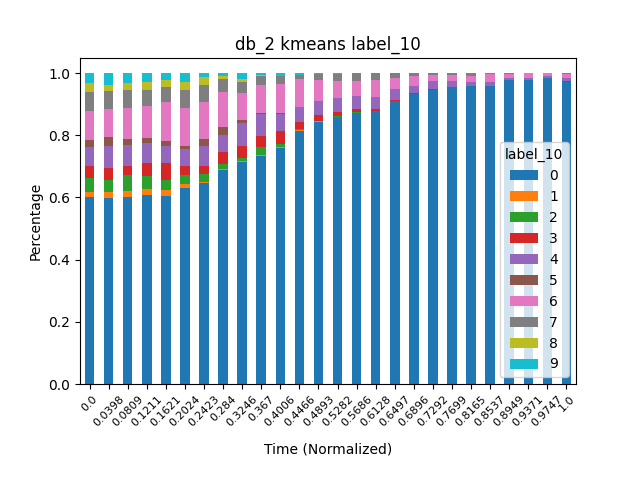
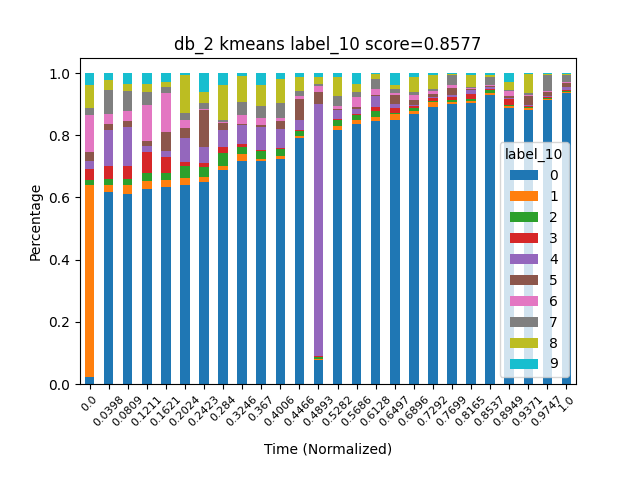
v0.5

Changed region(s): [[0.125, 0.1562, 0.9062, 0.7812], [0.2812, 0.0625, 0.75, 0.125], [0.1562, 0.1562, 0.1875, 0.1875]]

diff --git a/main.py b/main.py
@@ -27,10 +27,11 @@ if __name__ == '__main__':
     parser.add_argument('--retrain', type=bool, default=False, help='retrain the model even if the results are exist')
     opt = parser.parse_args()
     
-    # load data
+    # load data and sort by time ASC
     config = yaml.safe_load(Path('config.yaml').read_text())
     data_path = config[f'path_{opt.db}']
     data = pd.read_csv(data_path)
+    data = data.sort_values(by='time')
     ts_feats = config[f'feat_{opt.db}'] # determine time series feature (string)
     model_name = model_selection(opt.model)
     
@@ -58,29 +59,41 @@ if __name__ == '__main__':
     print(f'Start clustering {data_path}')
     
     try:
+        # manually clear the cached labels
         if opt.clean:
             data = data.loc[:, ~data.columns.str.contains('^label_')]
         
-        X = data[ts_feats].to_numpy()
+        # get unique time
+        time = pd.unique(data['time'])
+        
+        # get corresponding time-sensitive features
         if len(ts_feats) == 1:
-            X = X.reshape(-1, 1)
+            Xs = [data.loc[data['time']==t, ts_feats].to_numpy().reshape(-1, 1) for t in time]
+        else:
+            Xs = [data.loc[data['time']==t, ts_feats].to_numpy() for t in time]
         
         if model_name == 'kmeans':
             k_start, k_end = config['kmeans_k']
             k_range = range(k_start, k_end+1)
+            score_dict = {}
             for n_cluster in tqdm(k_range, total=len(k_range)):
                 model = KMeans(n_clusters=n_cluster)
-                model.fit(X)
-                labels = model.predict(X)
-                s_score = silhouette_score(X, labels)
-                # print(f'{n_cluster}: {s_score}')
+                labels = []
+                scores = []
+                for X in Xs:
+                    model.fit(X)
+                    label = model.predict(X)
+                    s_score = silhouette_score(X, label)
+                    labels.extend(list(label.flatten()))
+                    scores.append(s_score)
+                score_dict[f'label_{n_cluster}'] = np.mean(scores)
                 data[f'label_{n_cluster}'] = labels
                 with open(os.path.join(model_dir, f'{model_name}_db_{opt.db}_k_{n_cluster}.pkl'), 'wb') as f:
                     pickle.dump(model, f)
                 data.to_csv(data_path, index=False)
             print('Clustered peacefully!')
             
-        plot_time_label(data, db_plot_dir)
+        plot_time_label(data, db_plot_dir, score_dict)
         print('Plotted successfully!')
                 
         

diff --git a/utils/plot.py b/utils/plot.py
@@ -5,12 +5,13 @@ import numpy as np
 from tqdm import trange
 import os
 
-def plot_time_label(df, db_plot_dir):
+def plot_time_label(df, db_plot_dir, score_dict):
     _, db_idx, model_name, _ = db_plot_dir.split('/')
     df = df.sort_values(by='time')
     labels = [x for x in df.columns if x.startswith('label_')]
     for i in trange(len(labels), desc='Plotting'):
         label = labels[i]
+        score = np.round_(score_dict[label], 4)
         plot_path = os.path.join(db_plot_dir, f'{label}.png')
         
         plt.clf()
@@ -24,7 +25,7 @@ def plot_time_label(df, db_plot_dir):
         xtick_pos = plt.xticks()[0]
         xtick_t = [np.round_(float(t.get_text().split()[-1]), 4) for t in plt.xticks()[1]]
         plt.xticks(xtick_pos, xtick_t, rotation=45, fontsize=8)
-        plt.title(f'{db_idx} {model_name} {label}')
+        plt.title(f'{db_idx} {model_name} {label} score={score}')
         plt.xlabel('Time (Normalized)', labelpad=10)
         plt.subplots_adjust(bottom=0.2)
         plt.ylabel('Percentage')
